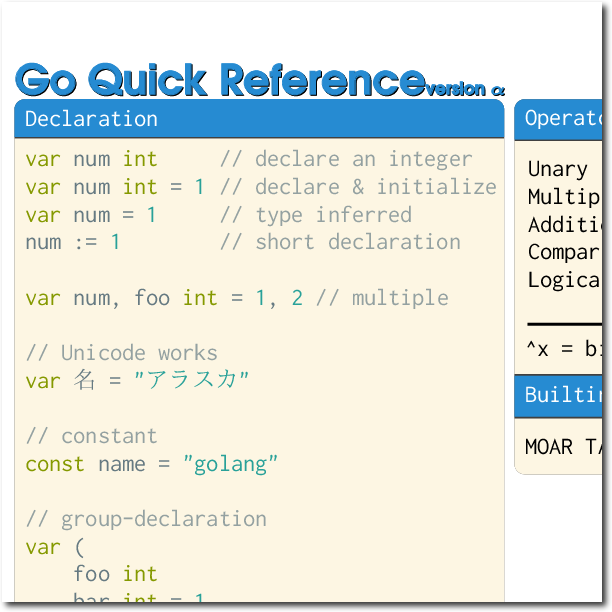
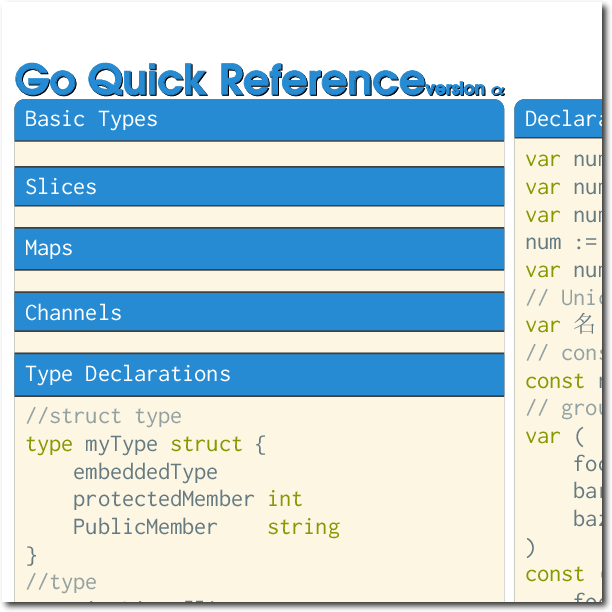
new layout, rm empty lines

diff --git a/golang-ref-sheet.tex b/golang-ref-sheet.tex
@@ -30,8 +30,7 @@
 \usepackage{pst-node, auto-pst-pdf}
 \usepackage[outputdir=\directlua{tex.sprint(os.getenv('BUILD_DIR'))}]{minted}
 \usepackage{tcolorbox}
-\usepackage{pdfrender}
-\usepackage[fleqn]{amsmath}
+\usepackage{pdfrender} %shadowed text
 
 % Fix Minted spacing
 \newlength{\fancyvrbtopsep}
@@ -81,92 +80,43 @@
     \includegraphics[height=12pt]{./figures/gopher.eps}
 \end{minipage}
 \begin{minipage}[t]{.25\textwidth}
-    \begin{codebox}[Declaration]
-        \begin{gocode}
-            var num int     // declare an integer
-            var num int = 1 // declare & initialize
-            var num = 1     // type inferred
-            num := 1        // short declaration
-
-            var num, foo int = 1, 2 // multiple
-
-            // Unicode works
-            var 名 = "アラスカ"
-
-            // constant
-            const name = "golang"
-
-            // group-declaration
-            var (
-                foo int
-                bar int = 1
-                baz = 2
-            )
-            const (
-                fooConst = iota // 0
-                barConst        // 1
-                bazConst = "Baz"
-            )
-
-            // camelCase when multi-word
-            myFavoriteRodent = "gopher"
-
-            // identifiers with uppercase first
-            // letters are exported
-            const PackageName = "my package"
-            var BadIdea = "mutate from anywhere!"
-
-            // TYPES
-            type intList []int
-
-            type myType struct {
-                embeddedType
-                protectedMember int
-                PublicMember    string
-            }
-
-            // FUNCTIONS
-            func returnNumberOne() int {
-                return 1
-            }
-
-            // multiple return values
-            func returnTwoInts() (int,int) {
-                return 2,3
-            }
-
-            // methods have receievers
-            func (t *myType) getProt() int {
-                return t.protectedMember
-            }
-
-            // INTERFACES
-            type protGetter interface {
-                // function signatures only
-                getProt() int
-            }
-        \end{gocode}
-        \tcbsubtitle{Short Declaration}
-        \begin{gocode}
-            x := aFunction() // type inferred
-
-            // can "re-declare" with at least one
-            // new variable
-            var y int
-            x, z := 1, 2 // ok
-            x, y := 3, 4 // ERROR
-
-            // creates block-local variables
-            for i:= 0 ; i < 10; i++ {
-                fmt.Println(i)
-            }
-            fmt.Println(i) // ERROR
-
-            // beware of shadowing
-        \end{gocode}
+    \begin{codebox}[Basic Types]
+    \tcbsubtitle{Slices}
+    \tcbsubtitle{Maps}
+    \tcbsubtitle{Channels}
+    \tcbsubtitle{Type Declarations}
+    \begin{gocode}
+        //struct type
+        type myType struct {
+            embeddedType
+            protectedMember int
+            PublicMember    string
+        }
+        //type
+        type intList []int
+    \end{gocode}
+    \tcbsubtitle{Functions}
+    \begin{gocode}
+        func returnNumberOne() int {
+            return 1
+        }
+        // multiple return values
+        func returnTwoInts() (int,int) {
+            return 2,3
+        }
+        // methods have receievers
+        func (t *myType) getProt() int {
+            return t.protectedMember
+        }
+    \end{gocode}
+    \tcbsubtitle{Interfaces}
+    \begin{gocode}
+        type protGetter interface {
+            // function signatures only
+            getProt() int
+        }
+    \end{gocode}
     \end{codebox}
-\end{minipage}%
-\begin{minipage}[t]{.25\textwidth}
     \begin{codebox}[Operators]
         \setlength{\tabcolsep}{2pt}
         \begin{postscript}
@@ -183,8 +133,57 @@
 		\ncline[linecolor=sblue]{B}{E}^{precedence}
 		\end{postscript}
             \textasciicircum x = bitwise compliment of x
-        \tcbsubtitle{Builtin types}
-		MOAR TABLES
+    \end{codebox}
+\end{minipage}%
+\begin{minipage}[t]{.25\textwidth}
+    \begin{codebox}[Declaration]
+        \begin{gocode}
+            var num int     // declare an integer
+            var num int = 1 // declare & initialize
+            var num = 1     // type inferred
+            num := 1        // short declaration
+            var num, foo int = 1, 2 // multiple
+            // Unicode works
+            var 名 = "アラスカ"
+            // constant
+            const name = "golang"
+            // group-declaration
+            var (
+                foo int
+                bar int = 1
+                baz = 2
+            )
+            const (
+                fooConst = iota // 0
+                barConst        // 1
+                bazConst = "Baz"
+            )
+            // camelCase when multi-word
+            myFavoriteRodent = "gopher"
+            // identifiers with uppercase first
+            // letters are exported
+            const PackageName = "my package"
+            var BadIdea = "mutate from anywhere!"
+        \end{gocode}
+        \tcbsubtitle{Short Declaration}
+        \begin{gocode}
+            // Can only use in function body
+            x := aFunction() // type inferred
+            // can "re-declare" with at least one
+            // new variable
+            var y int
+            x, z := 1, 2 // ok
+            x, y := 3, 4 // ERROR
+            // creates block-local variables
+            for i:= 0 ; i < 10; i++ {
+                fmt.Println(i)
+            }
+            fmt.Println(i) // ERROR
+            // beware of shadowing
+        \end{gocode}
+        \tcbsubtitle{Iota}
+        \begin{gocode}
+        \end{gocode}
     \end{codebox}
 \end{minipage}%
 \begin{minipage}[t]{.25\textwidth}
@@ -196,12 +195,10 @@
                 "pkg2"
             )
             import "fmt" //or one per-line
-
             const (
                 numberOne = 1
             )
             const hello = "Hello, 世界"
-
             //main.main required for executable
             func main() {
                 // Code
@@ -210,20 +207,13 @@
         \tcbsubtitle{Structure - Package}
         \begin{gocode}
             package mylib
-
             func CallMeFromOutside
         \end{gocode}
 	\end{codebox}
-    \begin{codebox}
-        \begin{gocode}
-            package anothermain
-            import (
-            "fmt"
-            )
-            func main() {
-                fmt.Println("Gopher, save me")
-            }
-        \end{gocode}
+    \begin{codebox}[Format verbs]
+        Simpler than C's
+
+        MOAR TABLE
     \end{codebox}
 \end{minipage}%
 \begin{minipage}[t]{.25\textwidth}
